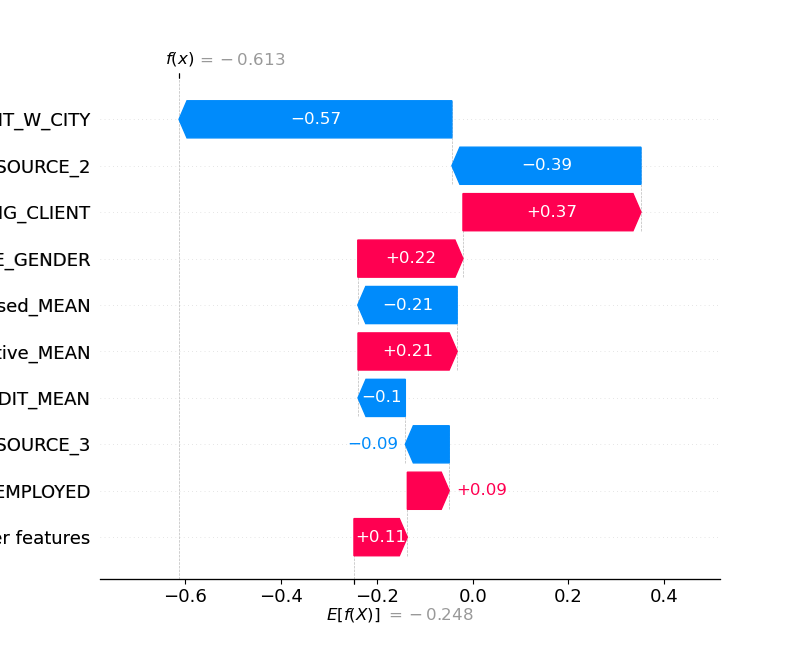
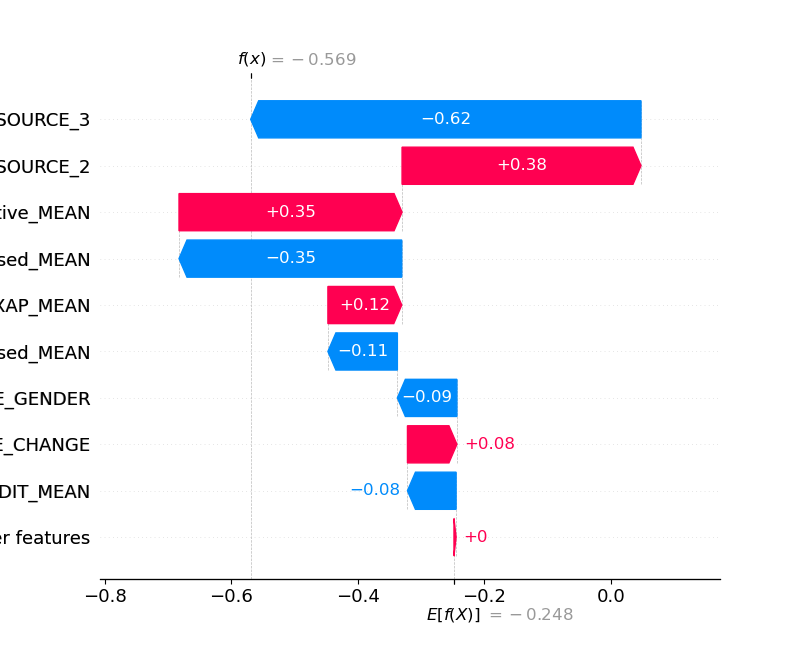
backend

diff --git a/app.py b/app.py
@@ -1,123 +1,76 @@
-from flask import Flask, render_template, request, jsonify, send_from_directory, redirect, url_for
-from flask_cors import CORS
+from flask import Flask, render_template, request, redirect, url_for
 import pandas as pd
 import numpy as np
 import joblib
 import os
 import pickle
-import matplotlib
-matplotlib.use('Agg')  # Utiliser un backend adapté pour les environnements serveur
-import matplotlib.pyplot as plt
-import warnings
-import json
-import plotly
-from functions.functions import *  # Assurez-vous que ce module est dans le même dossier ou dans PYTHONPATH
+from functions.functions import *
 
-# Désactiver les warnings si nécessaire, mais à utiliser avec prudence
-warnings.filterwarnings("ignore", category=UserWarning, module="sklearn")
 
-# URL de base pour les images et les ressources statiques
-base_url = "https://dashboardscoring-2a7a07653340.herokuapp.com"
-
-# Charger les données au démarrage de l'application
+# Load data once
 df, customer_ids = load_data()
 
 app = Flask(__name__)
 
-CORS(app)  # Activer CORS pour toutes les routes
-
-# Ou pour configurer des règles plus spécifiques
-CORS(app, resources={r"/*": {"origins": "*"}})
-
-@app.route('/customer_ids', methods=['GET'])
-def get_customer_ids():
-    # Retourner la liste des IDs clients au format JSON
-    _, customer_ids = load_data()
-    return jsonify(customer_ids)
-
 @app.route('/')
 def welcome():
-    # Passer la liste des IDs clients à la page d'accueil
+    # Pass the list of customer IDs to the welcome page
     return render_template('welcome.html', customer_ids=customer_ids)
 
 @app.route('/predict', methods=['POST'])
 def predict():
-    # Récupérer l'ID client depuis le JSON
-    data = request.get_json()
-    customer_id_str = data.get('customer_id')
+    # Get the selected customer ID from the form
+    selected_id = int(request.form.get('customer_id'))
     
-    if customer_id_str is None:
-        return jsonify({"error": "Aucun ID client fourni"}), 400
-    
-    try:
-        selected_id = int(customer_id_str)
-    except ValueError:
-        return jsonify({"error": "ID client non valide"}), 400
-    
-    # Extraire les données du client et effectuer la prédiction
+    # Extract customer features
     customer_data = extract_features_from_custom(df, selected_id)
-    if customer_data.empty:
-        return jsonify({"error": "Client non trouvé"}), 404
     
+    # Make a prediction
     decision, prediction_success, prediction_failure = predict_score(customer_data)
     
-    # Retourner les résultats sous forme de JSON
-    return jsonify({
-        'decision': decision,
-        'prediction_success': prediction_success,
-        'prediction_failure': prediction_failure,
-        'customer_id': selected_id
-    })
+    # Redirect to the prediction result page with the result
+    return redirect(url_for('show_prediction', decision=decision, 
+                            prediction_success=prediction_success, 
+                            prediction_failure=prediction_failure,
+                            customer_id=selected_id))
 
 @app.route('/result', methods=['GET'])
 def show_prediction():
-    # Récupérer les paramètres de la requête pour afficher les résultats
     decision = request.args.get('decision')
     prediction_success = request.args.get('prediction_success')
     prediction_failure = request.args.get('prediction_failure')
     customer_id = request.args.get('customer_id')
-    
     return render_template('prediction.html', 
                            decision=decision, 
                            prediction_success=prediction_success, 
                            prediction_failure=prediction_failure,
                            customer_id=customer_id)
-
-@app.route('/explain/<int:customer_id>', methods=['GET'])
+    
+@app.route('/explain/<int:customer_id>')
 def explain(customer_id):
     try:
-        # Récupérer le paramètre max_display depuis la requête
-        max_display = int(request.args.get('max_display', 10))
-
-        # Extraire les données du client et générer l'image SHAP
+        # Extraire les données du client
         customer_data_raw = extract_features_from_custom(df, customer_id)
-        if customer_data_raw.empty:
-            return jsonify({"error": "Client non trouvé"}), 404
+        print("Extraction des données du client réussie")
         
-        plot_path = generate_shap_image(customer_data_raw, max_display=max_display)
-        filename = os.path.basename(plot_path)
-
-        return jsonify({"image_url": f"{base_url}/static/{filename}"})
+        # Appeler la fonction pour générer l'image SHAP
+        plot_path = generate_shap_image(customer_data_raw)
+        
+        return render_template('explain.html', plot_path=plot_path)
     
     except Exception as e:
         print("Erreur dans la route explain:", str(e))
-        return jsonify({"error": "Une erreur s'est produite"}), 500
+        return "Une erreur s'est produite", 500
 
-@app.route('/static/<path:filename>')
-def static_files(filename):
-    # Servir les fichiers statiques (comme les images SHAP)
-    return send_from_directory('static', filename)
-
-@app.route('/distributions/<int:customer_id>', methods=['GET'])
-def distributions(customer_id):
-    try:
-        # Générer et retourner les distributions de features en format JSON pour Plotly
-        fig = generate_feature_distributions(df, customer_id)
-        fig_json = json.loads(plotly.io.to_json(fig))
-        return jsonify(fig_json)
+    
     except Exception as e:
-        print("Erreur dans la génération des distributions:", str(e))
-        return jsonify({"error": "Une erreur s'est produite"}), 500
+        print("Error in explain route:", str(e))
+        return "An error occurred", 500
+
+
+
+
+
 
 if __name__ == '__main__':
     app.run(debug=True)

diff --git a/functions/functions.py b/functions/functions.py
@@ -5,14 +5,6 @@ import joblib
 import os
 import shap
 import matplotlib.pyplot as plt
-import matplotlib
-matplotlib.use('Agg')  # Utiliser un backend adapté pour les environnements serveur
-import matplotlib.pyplot as plt
-import joblib
-import warnings
-
-# Désactiver les warnings si nécessaire, mais à utiliser avec prudence
-warnings.filterwarnings("ignore", category=UserWarning, module="sklearn")
 
 def load_data():
     # Load the CSV file into a DataFrame
@@ -21,6 +13,13 @@ def load_data():
     # Extract the customer IDs (SK_ID_CURR) column
     customer_ids = df['SK_ID_CURR'].tolist()
     return df, customer_ids
+
+#def extract_features_from_custom(df, customer_id):
+#    # Get the row of the customer
+#    customer_data = df[df['SK_ID_CURR'] == customer_id]
+#    # Drop the SK_ID_CURR and TARGET columns
+#    customer_data = customer_data.drop(columns=['SK_ID_CURR', 'TARGET'], errors='ignore')   
+#   return customer_data
 
 def extract_features_from_custom(df, customer_id):
     import pandas as pd
@@ -56,7 +55,8 @@ def predict_score(customer_data):
 
 
 
-def generate_shap_image(customer_data_raw, max_display=10):
+def generate_shap_image(customer_data_raw):
+        
     import joblib
     import shap
     import matplotlib.pyplot as plt
@@ -77,50 +77,12 @@ def generate_shap_image(customer_data_raw, max_display=10):
     # Calculer les valeurs SHAP
     shap_values = explainer(df_predict)
     
-    # Générer et enregistrer le graphique SHAP avec le paramètre max_display
+    # Générer et enregistrer le graphique SHAP
     plt.figure()
-    shap.plots.waterfall(shap_values[0], max_display=max_display, show=False)
-    plot_path = f'static/shap_global_importance_{customer_data_raw.index[0]}.png'
+    shap.waterfall_plot(shap_values[0], show=False)
+    plot_path = 'static/shap_global_importance.png'
     plt.savefig(plot_path)
     plt.close()
 
     return plot_path
-
-
-
-
-# Nouvelle fonction pour générer une grille de distributions
-def generate_feature_distributions(df, customer_id, cols_per_row=2):
-    from plotly.subplots import make_subplots
-    import plotly.graph_objs as go
-    import plotly.express as px
-    customer_data = df[df['SK_ID_CURR'] == customer_id].squeeze()
-    features = [col for col in df.columns if col != 'SK_ID_CURR']
-    num_features = len(features)
-    num_rows = (num_features // cols_per_row) + int(num_features % cols_per_row > 0)
-
-    # Créer une grille de sous-graphiques
-    fig = make_subplots(rows=num_rows, cols=cols_per_row, subplot_titles=features)
-
-    for i, feature in enumerate(features):
-        row = i // cols_per_row + 1
-        col = i % cols_per_row + 1
-
-        # Créer un histogramme pour la distribution de la feature
-        hist = go.Histogram(x=df[feature], opacity=0.7, name=feature, showlegend=False)
-
-        # Ajouter une ligne pour la valeur du client
-        client_value = customer_data[feature]
-        vline = go.Scatter(x=[client_value, client_value], y=[0, df[feature].value_counts().max()],
-                           mode="lines", name="Valeur du client", line=dict(color="red"), showlegend=False)
-        
-        # Ajouter les traces à la sous-figure
-        fig.add_trace(hist, row=row, col=col)
-        fig.add_trace(vline, row=row, col=col)
-
-        # Mettre à jour les axes pour chaque sous-figure
-        fig.update_xaxes(title_text=feature, row=row, col=col)
-
-    fig.update_layout(title_text="Distributions des Features par Rapport au Client Sélectionné", height=600*num_rows, showlegend=False)
-    return fig
 
